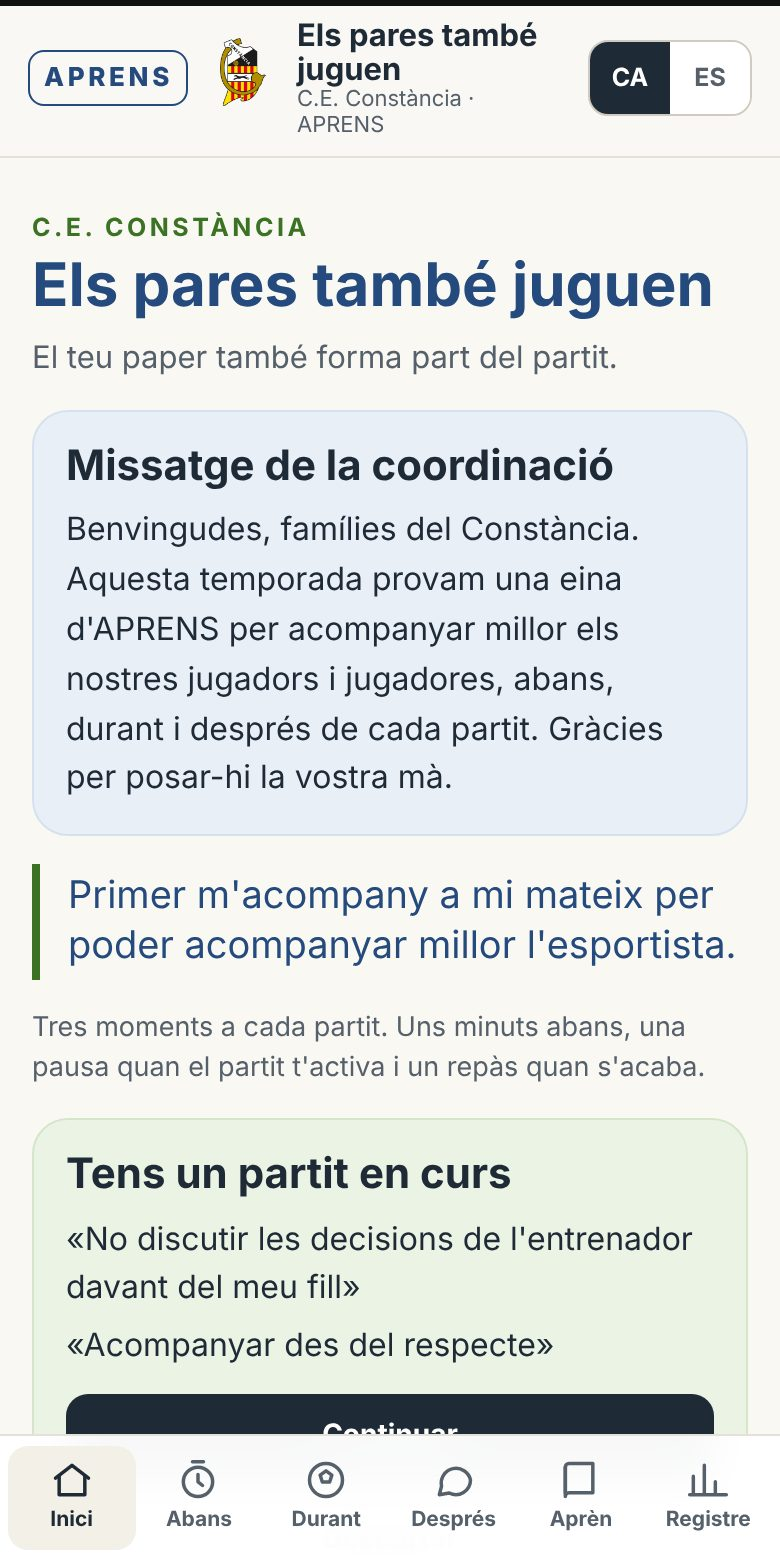
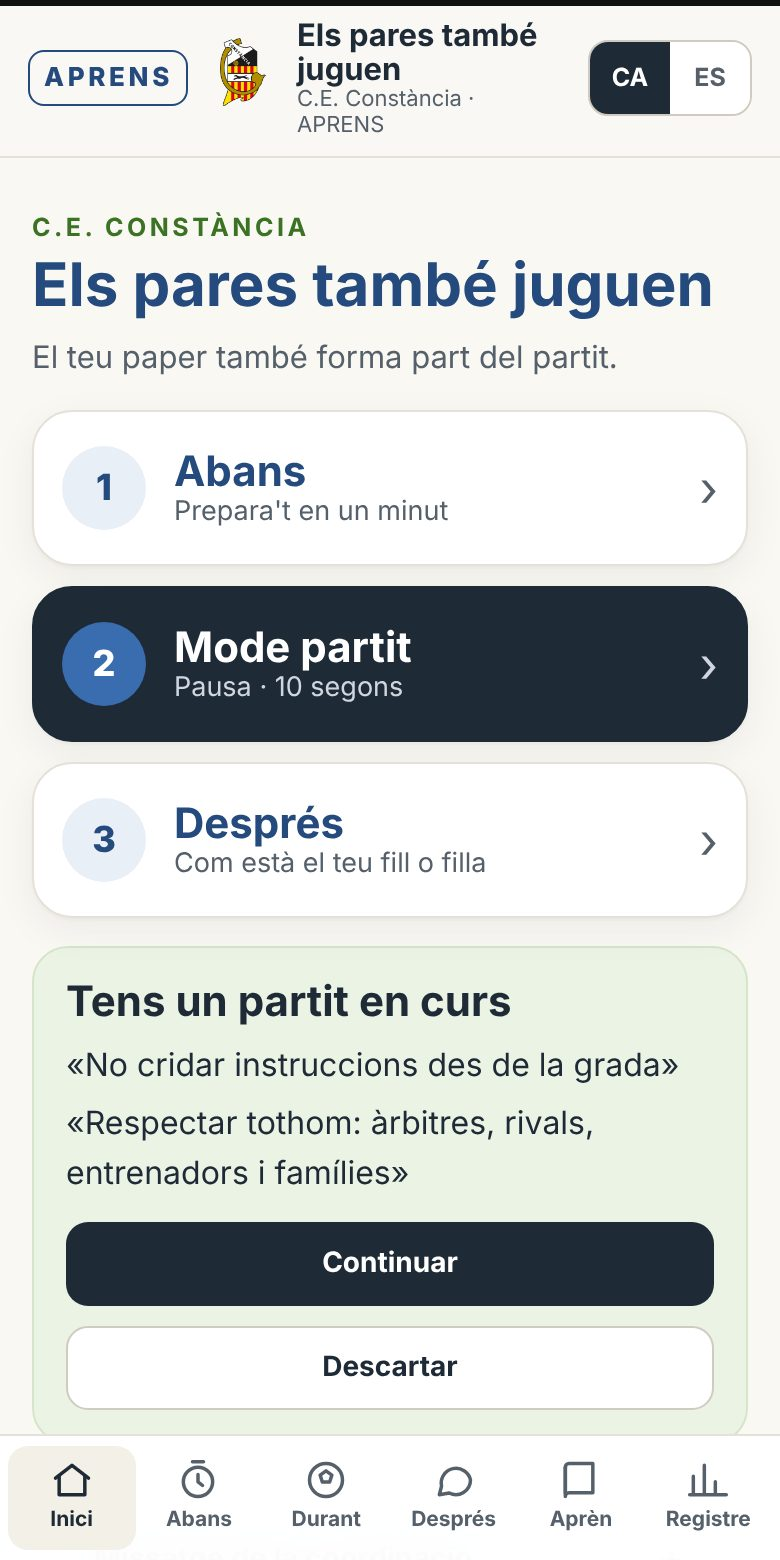
Guia per a clubs: preparació de la versió en castellà
- build.cjs genera el PDF català i el castellà
- Captures noves de l'app (català i castellà) i cartell en castellà
- L'app enllaça la guia en l'idioma de l'usuari

Claude-Session: https://claude.ai/code/session_011kgWq53SNe9ZYgHfWncVeo

Changed region(s): [[0.0308, 0.2769, 0.9846, 0.9231], [0.8923, 0.3077, 0.9231, 0.3385]]

diff --git a/app/esport-base/app.js b/app/esport-base/app.js
@@ -1088,7 +1088,7 @@
       '<p style="margin:0">' + esc(t.ui.seguretatText) + (cl && cl.proteccio && cl.proteccio.contacte ? '<br><b>' + esc(t.ui.seguretatClub) + '</b> ' + esc(loc(cl.proteccio.contacte)) : '') + '</p></div>';
     h += limitsPinya();
     h += acces('comunitat', IC.club, t.comunitat.titol, t.comunitat.exitCita);
-    h += '<div class="card blau"><h2>' + esc(c.guiaT) + '</h2><p>' + esc(c.guiaD) + '</p><a class="btn sm blau" href="../assets/pdf/guia-clubs-esport-aprens.pdf" target="_blank" rel="noopener">' + esc(c.guiaBtn) + '</a></div>';
+    h += '<div class="card blau"><h2>' + esc(c.guiaT) + '</h2><p>' + esc(c.guiaD) + '</p><a class="btn sm blau" href="' + esc(c.guiaUrl) + '" target="_blank" rel="noopener">' + esc(c.guiaBtn) + '</a></div>';
     h += '<div class="card"><h2>' + esc(c.recursos) + '</h2><p style="margin:0">' + esc(c.recursosText) + '</p></div>';
     h += '<div class="card"><h2>' + esc(c.qrT) + '</h2><p class="muted">' + esc(c.qrD) + '</p><div class="qr" id="qr"></div><p class="muted" style="word-break:break-all;text-align:center" id="qrUrl"></p>' +
       '<div class="btnrow"><button type="button" class="btn sm ghost" id="baixaQr">' + esc(c.descarregaQr) + '</button><button type="button" class="btn sm ghost" id="copiaUrl">' + esc(c.copiaEnllac) + '</button><button type="button" class="btn sm verd" id="waUrl">' + esc(c.compartir) + '</button></div></div>';

diff --git a/app/esport-base/contingut-es.js b/app/esport-base/contingut-es.js
@@ -937,8 +937,9 @@ window.EPJ_TXT.es = {
       club: { t: "El club", l: ["Ponemos la formación y el bienestar por delante del resultado.", "Cuidamos un entorno seguro y aplicamos el protocolo de protección.", "Facilitamos canales claros de comunicación.", "Ofrecemos formación a familias y entrenadores."] }
     },
     guiaT: "Guía de trabajo psicológico con clubes",
-    guiaD: "Deporte base: salud y rendimiento. Marco de trabajo para toda la temporada, con módulos para familias, entrenadores, jugadores y club, y fichas para fotocopiar (PDF, en catalán).",
+    guiaD: "Deporte base: salud y rendimiento. Marco de trabajo para toda la temporada, con módulos para familias, entrenadores, jugadores y club, y fichas para fotocopiar (PDF).",
     guiaBtn: "Abrir la guía (PDF)",
+    guiaUrl: "../assets/pdf/guia-clubs-esport-aprens-es.pdf",
     qrT: "Compartir con un QR",
     qrD: "Para carteles, circulares y reuniones. Al escanearlo se abre la herramienta con la configuración del club.",
     descarregaQr: "Descargar el QR",

diff --git a/app/esport-base/contingut-ca.js b/app/esport-base/contingut-ca.js
@@ -937,8 +937,9 @@ window.EPJ_TXT.ca = {
       club: { t: "El club", l: ["Posam la formació i el benestar per davant del resultat.", "Cuidam un entorn segur i aplicam el protocol de protecció.", "Facilitam canals clars de comunicació.", "Donam formació a famílies i entrenadors."] }
     },
     guiaT: "Guia de treball psicològic amb clubs",
-    guiaD: "Esport de base: salut i rendiment. Marc de treball per a tota la temporada, amb mòduls per a famílies, entrenadors, jugadors i club, i fitxes per fotocopiar (PDF, en català).",
+    guiaD: "Esport de base: salut i rendiment. Marc de treball per a tota la temporada, amb mòduls per a famílies, entrenadors, jugadors i club, i fitxes per fotocopiar (PDF).",
     guiaBtn: "Obrir la guia (PDF)",
+    guiaUrl: "../assets/pdf/guia-clubs-esport-aprens.pdf",
     qrT: "Compartir amb un QR",
     qrD: "Per posar a cartells, circulars i reunions. Escanejant-lo s'obri l'eina amb la configuració del club.",
     descarregaQr: "Descarregar el QR",
